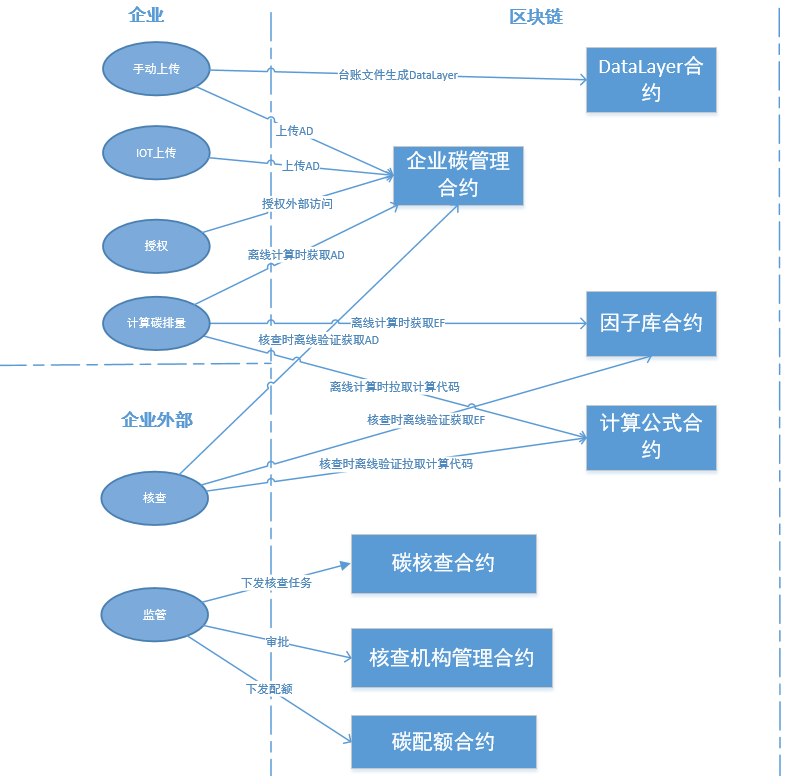
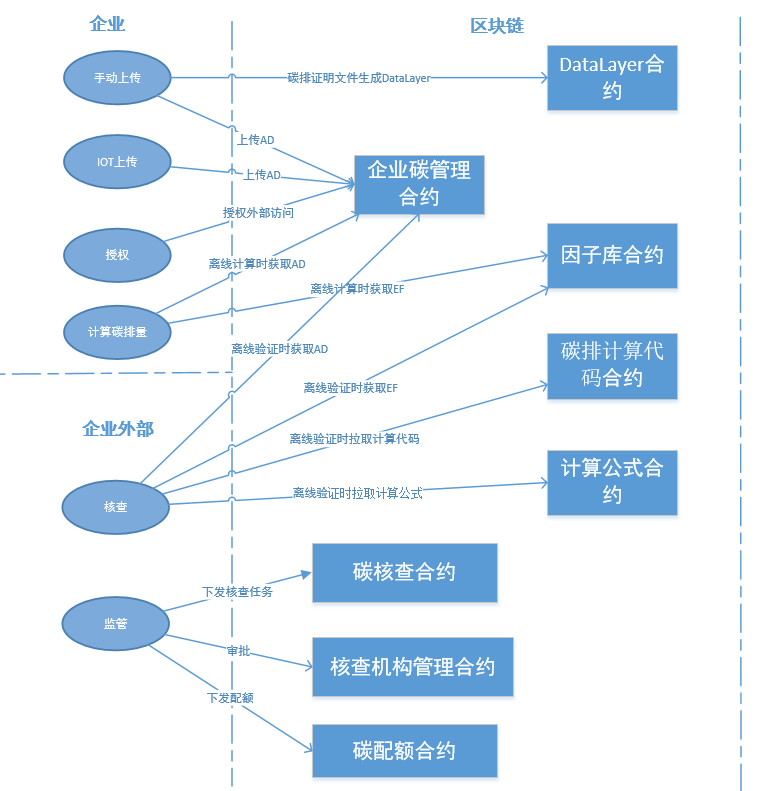
adjust after discussion 20231105

diff --git a/doc/design.md b/doc/design.md
@@ -6,53 +6,83 @@
 
 ![图片](pics/contracts.png)
 
-> 注：标准范围只涉及以上机构的相关合约。暂时不考虑CCER,碳汇,交易所,碳足迹等。暂时不考虑数据的加密.
+> 注：标准范围只涉及企业碳排的相关合约。暂时不考虑CCER,碳汇,碳交易,碳足迹等。
 
 ### 1 因子库合约
 
-从UserAuth合约继承,可以控制只能由部署者或部署者允许的帐号添加/修改因子,而任何帐号可以查看因子. 因子库可以有多个合约,比如 24行业因子库, ISO因子库等等.
+从UserAuth合约继承,可以控制只能由部署者或部署者允许的帐号才能添加/修改因子,而任何帐号均可以查看因子. 
+
+因子库可以有多个合约,比如 24行业因子库, ISO因子库等等.
 
 ### 2 计算公式合约
 
-从UserAuth合约继承,可以控制只能由部署者或部署者允许的帐号添加/修改公式,任何帐号均可以查看公式.
+从UserAuth合约继承,可以控制只能由部署者或部署者允许的帐号才能添加/修改公式,而任何帐号均可以查看公式.
 
-计算公式合约可以有多个合约,比如 24行业计算公式合约, ISO计算公式合约等等.
+计算公式合约可以有多个合约,比如 24行业计算公式合约, ISO计算公式合约等.
 
-计算的具体JS代码保存在计算公式合约中, JS代码需保证是原生代码，没有外部依赖库.
+### 3 碳排计算代码合约
 
-### 3 企业碳管理合约
+从UserAuth合约继承,可以控制只能由部署者或部署者允许的帐号才能添加/修改代码,而任何帐号均可以获取计算代码.
 
-从UserAuth合约继承,可以控制哪些帐号可以添加/修改/查看碳排数据;可以控制哪些帐号可以生成/修改/查看碳排报告;哪些帐号可以添加/修改/查看企业碳配额;哪些帐号可以添加/修改/查看企业自测因子.
+计算的具体JS代码保存在该合约中, JS代码需保证是原生代码，没有外部依赖库.
 
-   每个企业对应一个企业碳管理合约. 主要功能有:
+### 4 碳排索引合约
 
-   **碳排数据的上传**: 可以通过IOT设备自动上报碳排数据也可以人工上报碳排数据;碳排数据可以选择加密或不加密;每次碳排数据上报时调用Datalayer合约的构造函数生成相应台账,发票等证明文件的DataLayer合约.
+保存有因子库合约,计算公式合约,碳排计算代码合约相关的升级和历史信息. 
 
-   **碳排报告的保存**: 企业离线计算后,生成碳排报告;碳排报告可以选择加密或不加密;.每次碳排报告生成时自动调用 Datalayer合约的构造函数自动生成一个DataLayer合约; 碳排报告的台账,发票等证明文件也需要生成DataLayer合约,在碳排报告的extra字段保存这些证明文件DataLayer的hash,以便于在区块链浏览器上查看验证。
+从这个索引合约可以检索到以上合约的历史记录,版本历史,从而可以找到对应的合约地址.
 
-   **碳配额管理**: 年初由环境厅设置配额, 企业年末计算碳排量生成报告进行履约,可以比较实时地监测企业碳配额的变化; 该合约记录企业所属行业,便于计算碳排量生成碳排报告时获取对应行业的因子库和计算公式进行计算.
+### 5 企业碳管理合约
 
-   企业自测因子库管理:企业自测因子库也放在碳管理合约里,这样既支持核查机构检查,也保证了私密性.
+从UserAuth合约继承,可以控制只有企业碳排管理员帐号可以添加/修改/查看碳排数据;
 
-### 4 碳核查合约
+可以控制只有企业帐号可以生成/修改/查看碳排数据;
 
-从UserAuth合约继承,可以控制只能由部署者或部署者允许的帐号添加/修改/查看碳核查流程;
+   每个企业对应一个企业碳管理合约. 
+
+   企业和监管机构通过该合约可以较实时地监测企业碳排放量; 
+
+   该合约记录有企业所属行业,从而便于计算碳排量时获取对应行业的因子库和计算公式进行计算.  
+
+   主要功能有:
+
+   **碳排数据的上传**: 可以通过IOT设备自动上报碳排数据也可以人工上报碳排数据;
+
+    碳排数据包括选择的因子,选择的公式,排放量。
+
+    每次碳排数据上报时相应台账,发票等证明文件数据和上传人,排放设备等信息也需保存.以便核查机构查看验证.
+
+    设计上企业自测因子也属于碳排数据的一部分,上传时需指明是使用的自测因子库以及提供自测的支撑信息，这样既支持核查机构检查自测因子的有效性,也保证了自测因子的私密性.
+
+    碳排数据可以选择加密或不加密;
+
+   **碳排报告**: 企业离线计算后,生成该时间段的碳排报告保存;碳排报告可以选择加密或不加密.
+
+   企业碳排报告核查不通过, 需要整改时, 碳排整改记录也需保存.以便核查机构再次核查时查看验证.   
+
+### 6 碳配额合约
+
+   从UserAuth合约继承,可以控制控制只有环境厅的管理员账户才可以下发企业碳配额;   
+
+    碳配额合约从ERC20继承,使其具有金融功能,该合约管理有相关企业的碳管理合约地址和年度配额,以及相关企业的碳账户地址.(为以后的碳交易准备).
+
+   该合约年初时由环境厅下发相关企业的配额.由环境厅控制.
+
+### 7 核查机构管理合约
+
+从UserAuth合约继承,可以控制只能由部署者或部署者允许的帐号审批核查机构;
+
+    该合约管理有资质进行核查的核查机构.由环境厅控制.
+
+### 8 碳核查合约
+
+从UserAuth合约继承,可以控制只能由部署者或部署者允许的帐号参与碳核查;
 
     该合约控制每年每个企业的碳核查流程.由环境厅控制.
 
-### 5 碳配额合约
+### 9 DataLayer 合约
 
-从UserAuth合约继承,可以控制只能由部署者或部署者允许的帐号添加/修改/查看碳配额.
-
-    该合约年初时由环境厅下发相关企业的配额..由环境厅控制.
-
-### 6 碳系统索引合约
-
-保存有其他合约相关的升级和历史信息. 从这个索引合约可以检索到各个合约的历史记录,版本历史,可以找到对应的合约地址.
-
-### DataLayer 合约
-
-保存企业数据（或则数据摘要），每一个数据需要部署一个DataLayer合约，各个dataLayer之间可以建立关联关系，用于追溯依赖。
+保存企业碳排数据（或则数据摘要），每个企业需要部署一个DataLayer合约，企业碳排数据，相应台账,发票等证明文件数据保存在该DataLayer中, 各数据之间可以建立关联关系，用于追溯依赖。
 
 **状态**
 
@@ -67,7 +97,7 @@
 
 **依赖**
 
-* 添加DataLayer合约地址来关联其它数据
+* 添加DataLayer hash来关联其它数据
 
 
 
@@ -104,40 +134,6 @@
 
 
 
-## 四、因子&公式 数据制定流程
-
-考虑到上传到链上的各个版本因子数据和公式数据的权威性，在流程上增加多方（起草 & 监管 & 企业代表）审核起草的数据。因子数据 和公式合约的数据制定流程保持一致。
-
-### 参与方
-
-* 监管
-* 企业代表
-* ...
-
-### 状态
-
-* 起草（Draft）
-* 检查（Review）
-* 生效（Effectuation）
-
-### 流程
-
-> 因子数据 和公式合约的数据制定流程一致, 每一个版本单独审核.
-
-* 起草人员提交数据（比如提交国标 建筑行业的 碳排因子），状态为draft，并指定由哪些accout审核。
-
-- 所有人员可以检查，起草人员有必要就修改，
-- 线下所有交流准备妥当后，起草人员设置状态为review
-- 所有人员发送transaction 调用合约批准后，自动转为final状态， 任意一方不通过，状态将被设置为draft
-
-
-
-注：effectuation状态的 因子| 公式合约 将不能修改数据
-
-
-
-
-
 ## 五、 数据标准
 
 为了规范合约中的数据，我们将会约定合约中的各种命名规范，数据信息保存格式。
@@ -165,11 +161,11 @@
 
 * 国标公式合约索引命名
 
-| 行业名       | 索引名                       |
-| ------------ | ---------------------------- |
-| 中国发电企业 | `GB_01_factor_20231001_0000` |
-| 中国电网企业 | `GB_02_factor_20231001_0000` |
-|              |                              |
+| 行业名       | 索引名                        |
+| ------------ | ----------------------------- |
+| 中国发电企业 | `GB_01_formula_20231001_0000` |
+| 中国电网企业 | `GB_02_formula_20231001_0000` |
+|              |                               |
 
 * ISO因子合约索引命名
 
@@ -186,12 +182,14 @@
 #### 数据结构
 
 ```
-contract_num: 2,
+contract_num: 4,
 
 mapping(string => address) //对应的合约地址mapping，如：
 contracts: {
     "GB_01_factor_20231030_0000": "发电企业factor contract address",
     "GB_02_factor_20231030_0000": "电网企业factor contract address",
+    "GB_01_formula_20231030_0000": "发电企业formula contract address",
+    "GB_02_formula_20231030_0000": "电网企业formula contract address",
 }
 ```
 
@@ -320,7 +318,6 @@ datalayer contract 对应的JSON格式的公式数据为:
 name: "xxx企业",
 industrycode:"01"
 
-mapping( string => string)  //某个年度的碳配额  如 "2023" =>"12345.543"
 mapping( string => uint32) //某个年度已经提交了多少个碳排记录 如 “2023”=>6
 mapping( string => (mapping (uint32 => struct))) //具体碳排记录mapping
 ```
@@ -333,12 +330,13 @@ mapping( string => (mapping (uint32 => struct))) //具体碳排记录mapping
 {
         "2023": {
             // is_bottom 为true 意味着 该数据我们可以 加起来 用于外部系统实时计算年度 碳排
-            "01": { data: "A DataLayer contract address", invalid: false, title: "一月" , is_bottom: true, result: "120.3"},
-            "02": { data: "A DataLayer contract address", invalid: false, title: "二月" , is_bottom: true, result: "120.31"},
-            "03": { data: "A DataLayer contract address", invalid: false, title: "三月" , is_bottom: true, result: "120.378"},
-            "04": { data: "A DataLayer contract address", invalid: false, title: "一季度" , is_bottom: false, result: "380.3"},
-            "05": { data: "A DataLayer contract address", invalid: false, title: "四月" , is_bottom: true, result: "120.345"},
-            "05": { data: "A DataLayer contract address", invalid: false, title: "年度报告" , is_bottom: false, result: "678.543"},
+            "01": { data: "datalayerhash", valid: true, title: "一月" , aggregated: false, result: "120.3"},
+            "02": { data: "datalayerhash", valid: true, title: "二月" , aggregated: false, result: "120.31"},
+            "03": { data: "datalayerhash", valid: true, title: "三月" , aggregated: false, result: "120.378"},
+            "04": { data: "datalayerhash", valid: true, title: "一季度" , aggregated: true, result: "380.3"},
+            "05": { data: "datalayerhash", valid: true, title: "四月" , aggregated: true, result: "120.345"},
+            "05": { data: "datalayerhash", valid: false, title: "年度报告" , aggregated: true, result: "678.543"},
+             "06": { data: "datalayerhash", valid: true, title: "年度报告(整改后)" , aggregated: true, result: "678.543"},
         }
 }
 ```
@@ -347,7 +345,7 @@ mapping( string => (mapping (uint32 => struct))) //具体碳排记录mapping
 
 #### 数据示例
 
-datalayer contract 对应的JSON格式的碳排数据为:
+datalayerhash 对应的JSON格式的碳排数据为:
 
 ```
 {
@@ -372,6 +370,12 @@ datalayer contract 对应的JSON格式的碳排数据为:
 
         [{ "name": "2023年4月购电发票" },
         { "datalayerhash": "0x12345678901234567890123456789013" }]
+        
+        [{ "name": "2023年4月燃油自测因子测试量具和测试方法及过程文件" },
+        { "datalayerhash": "0x12345678901234567890123456789014" }]
+        
+        [{ "name": "2023年碳排整改文件" },
+        { "datalayerhash": "0x12345678901234567890123456789015" }]
 
         ///......
 
